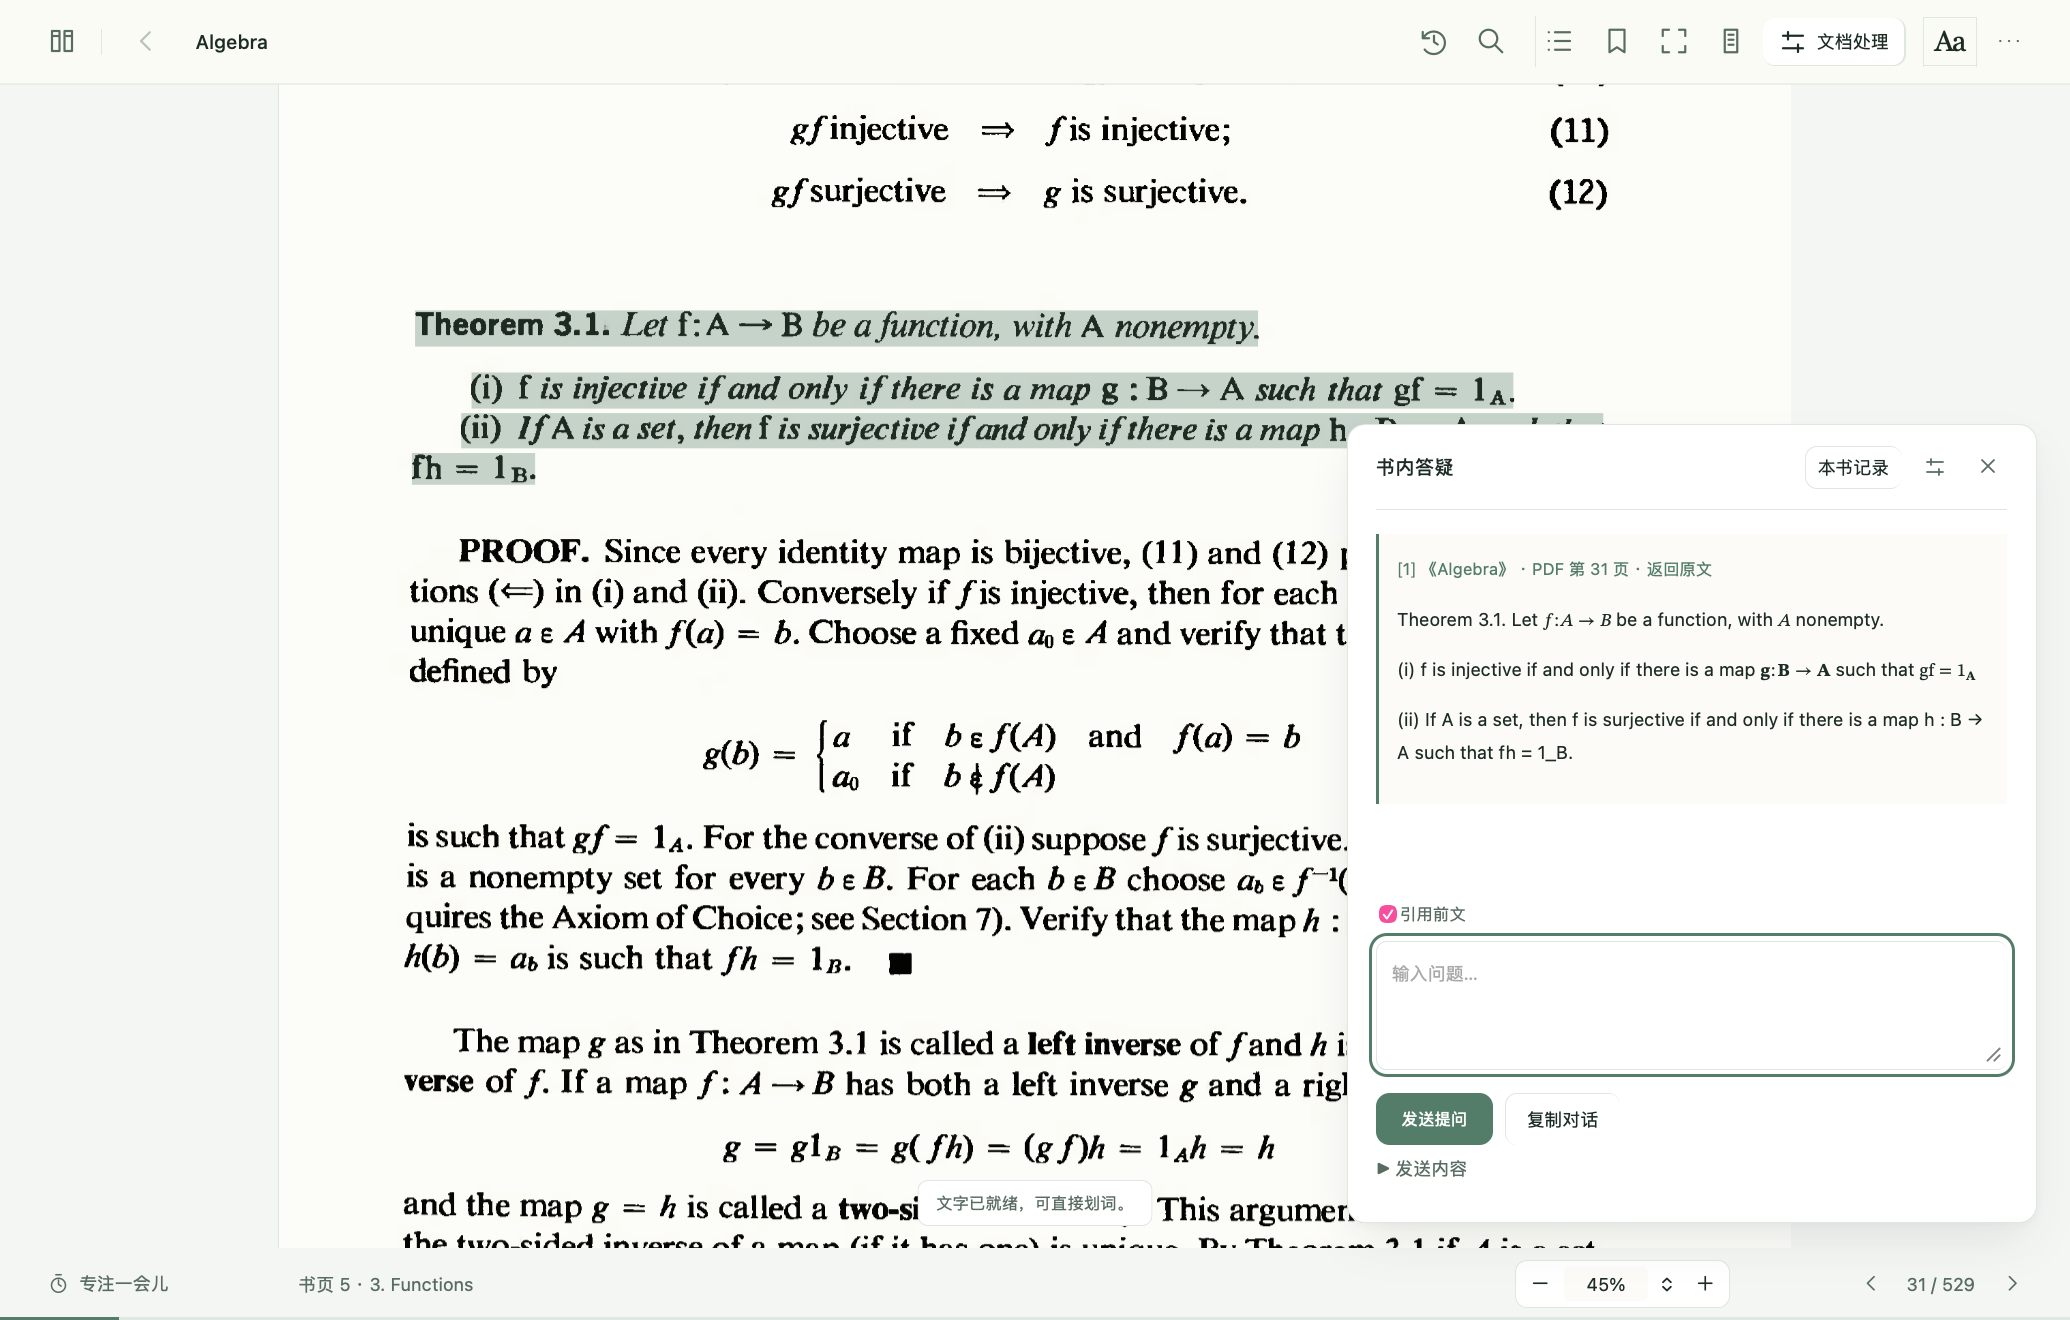
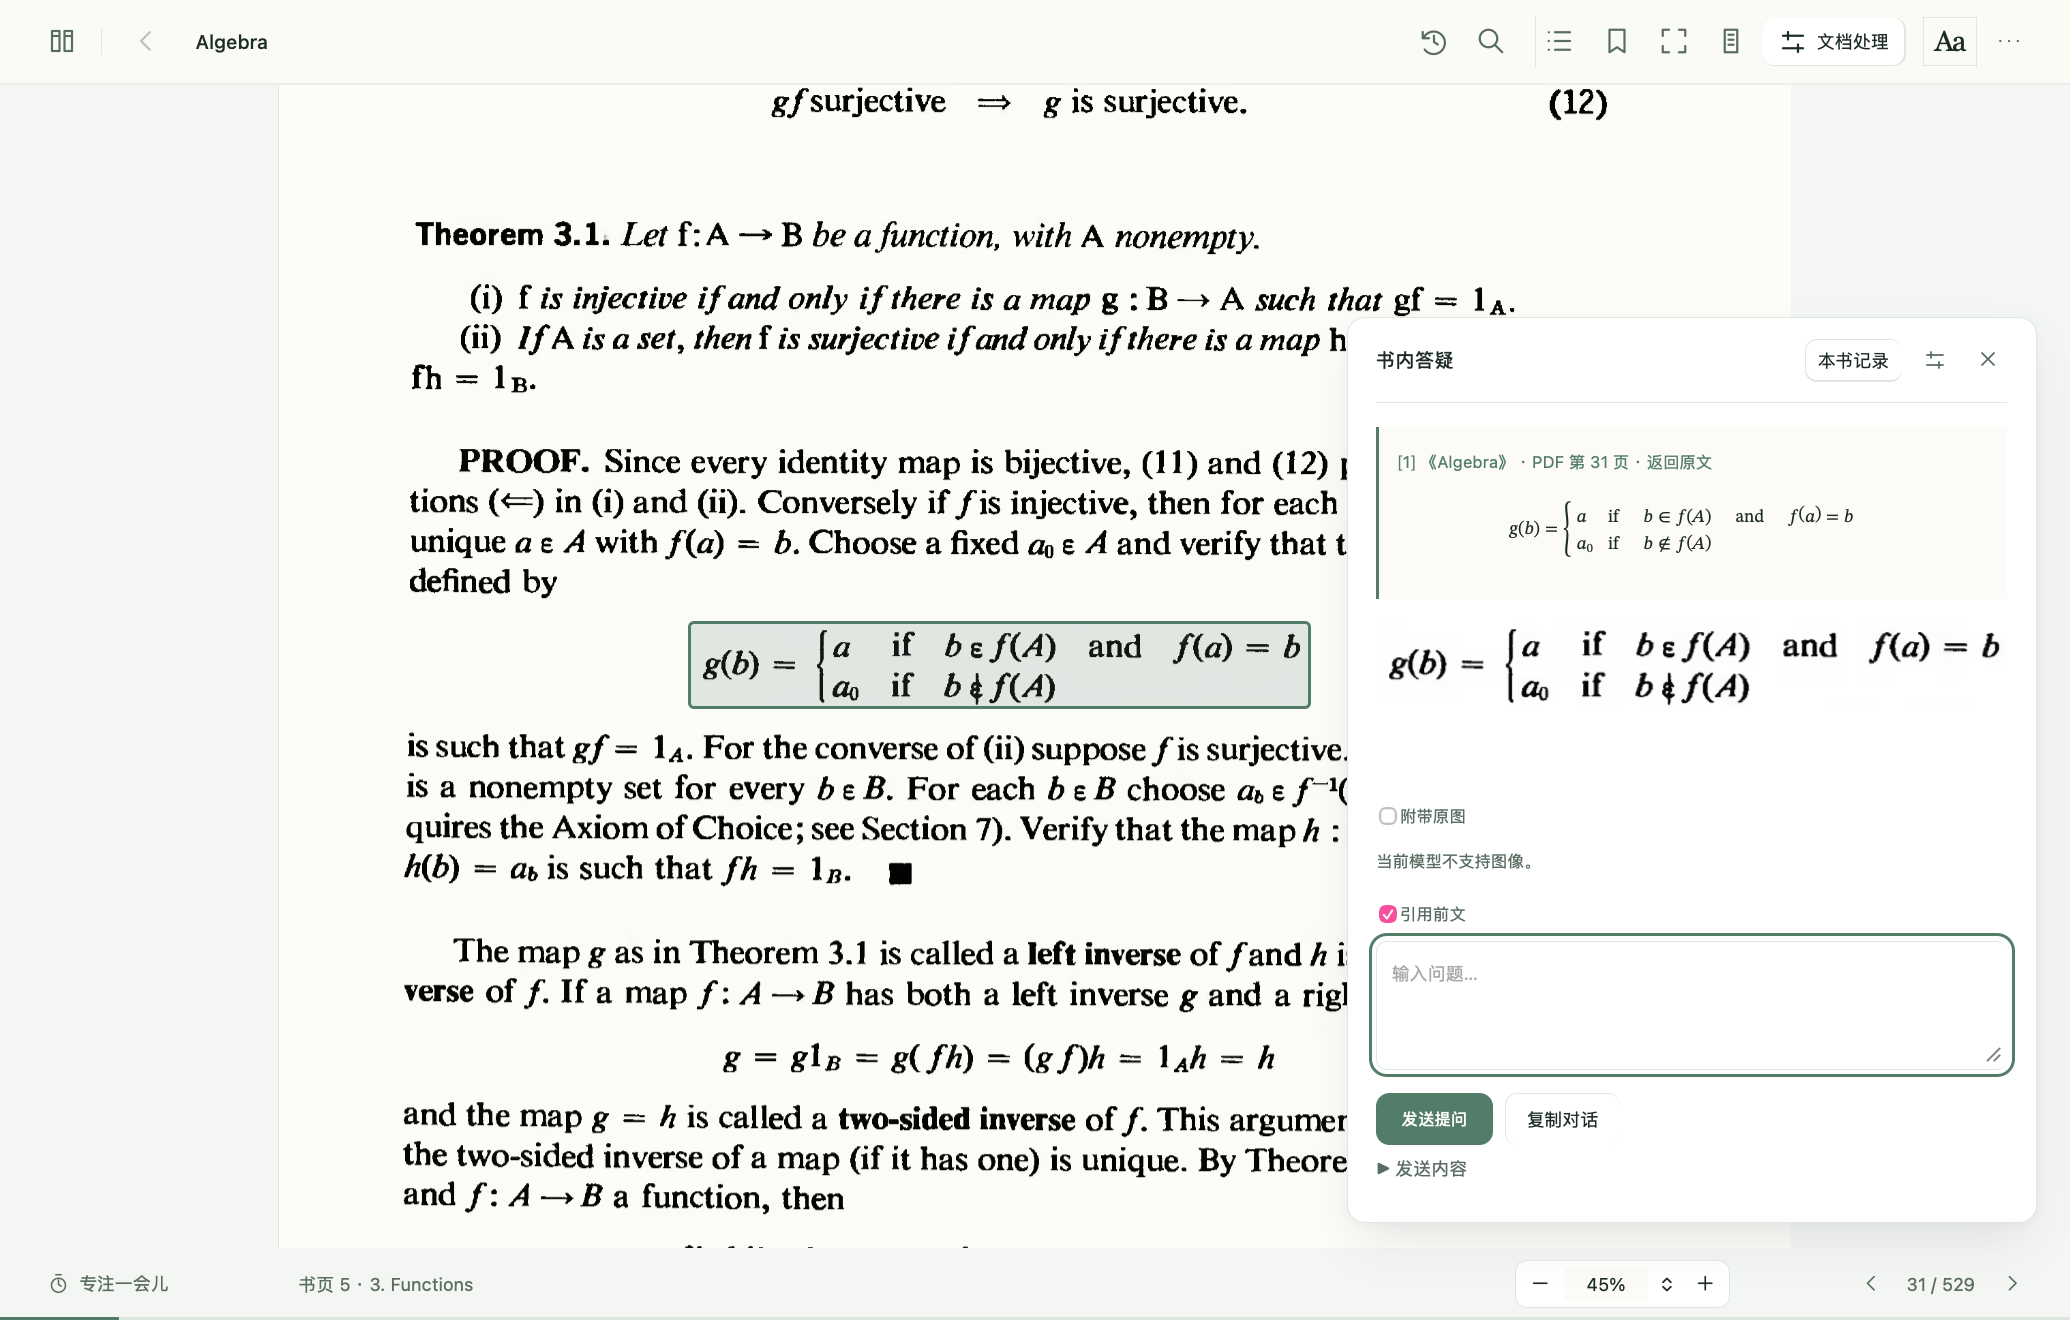
docs: explain local credential storage and show full formula preview

diff --git a/docs/REVIEW_DIALOGUE.md b/docs/REVIEW_DIALOGUE.md
@@ -2,6 +2,12 @@
 
 这份文件用于持续交换判断、证据与问题。每轮追加日期、对应版本、采纳情况与验证结果；请保留此前记录，便于确认一个问题是否真正解决。
 
+## 2026-11-05 · 本地凭据与教材展示（0.5.34）
+
+用户明确要求改用文件保存 Key、Token 与登录密码。Mac 使用资料目录中的 services.json、book-source.json，iPhone 使用沙盒中的 credentials.json，采用 JSON 明文与 0600 文件权限。旧凭据仅通过禁止交互的只读桥迁移，后续保留、替换、删除直接写文件。本机四组旧凭据已逐项校验迁移，设置响应只包含配置状态。文件原子写入、失败保护、翻译模型继承与独立配置、密码保留和更换账号均有回归。
+
+本轮用户另授权用已有中英文数学教材的短选段公开展示。README 开头注明完全由 Vibe Coding 制作，新增实际划词、Google 翻译、整式与原图对照的 Markdown 预览。截图来自隔离副本，图书原件和解析资料保留在本机。此前原创截图规则在本轮按用户指定的这两本教材调整。
+
 ## 2026-11-05 · 报告逐项收尾与设备迁移
 
 最终生产代码 `bbb5b58` 的 [完整 CI](https://github.com/ruxin123/page-between/actions/runs/41968767176) 已通过，36 项核心与 7 条原生 UI 流程、OCR／MinerU／迁移及打包资源均为绿色。另发现并修正迁移临时文件名的 Unicode 字节长度边界；完整标题仍保留在元数据。真实分享面板入口、长标题导入、位置与书签恢复已检查，真机传输没有用模拟器结果冒充。普通版 0.5.33 更新；截图均为原创示例。

diff --git a/QA.md b/QA.md
@@ -1,5 +1,11 @@
 # 验证记录
 
+## 2026-11-05 · 文件凭据与 README 展示
+
+Python 全套 173 项通过，随后新增的书源迁移与写盘失败保护检查通过，书源现为 7 项。Swift 核心 37 项通过。普通版 0.5.34 冻结服务通过本地凭据实际写盘、0600 权限、响应脱敏、携带已保存 Key 请求受控服务、重启读取以及完整备份排除配置文件。四组实际旧凭据已无交互迁移并核对值一致，安装后个人模式完成就绪。
+
+教材截图来自用户指定两本书的隔离副本，Google 使用实际网络请求，预览使用生产 Markdown／MathML 渲染。截图逐张检查，原书、解析 JSON 和凭据未放入仓库。原生本地回归先后遇到历史测试书籍累积与新模拟器正文加载超时，保留原断言和结果，云端结论以实际运行另行记录。
+
 ## 2026-11-05 · 报告收尾与迁移
 
 最终生产代码 `bbb5b58` 的 [完整 GitHub Actions](https://github.com/ruxin123/page-between/actions/runs/41968767176) 已通过：36 项核心、7 条原生 UI、生产迁移 ZIP 双向互读、OCR、受控 MinerU 及 App 资源。长中文标题实际走完两端导入／导出，完整书名保留；iPhone 系统分享检查等待真正的“保存到文件”操作出现，兼容系统以 cell 或 button 暴露该入口，不以点按后截到原窗口代替成功。
